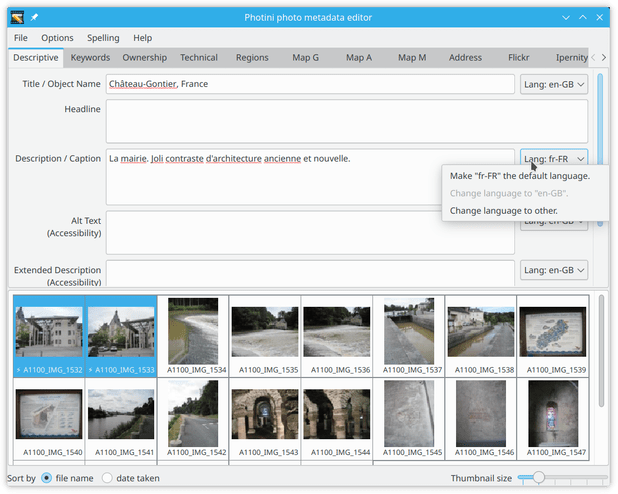
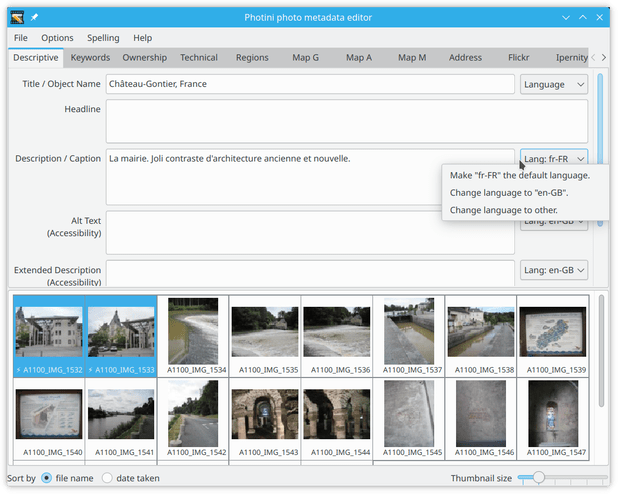
Update descriptive tab documentation

diff --git a/src/doc/manual/descriptive_metadata.rst b/src/doc/manual/descriptive_metadata.rst
@@ -118,12 +118,15 @@ If you install the appropriate dictionaries then setting the language of a ``Lan
 You can change the language of some existing text by right-clicking on the language selector drop down to bring up its context menu.
 This has options to change the language to your computer's default or to any other language.
 
+If there is already text in the language you change to then that text is merged with the current text.
+
 .. image:: ../images/screenshot_036.png
 
 When there is more than one language you can choose which one is the default with the right-click context menu.
 The default language appears first in the language drop down selector.
 
 When a ``Lang Alt`` data field has multiple values, you can use the drop down selector to select each language in turn before right-clicking on the text to choose one of the values.
+You can also change the language of multiple values with the language selector context menu.
 
 Copy and paste
 ^^^^^^^^^^^^^^
